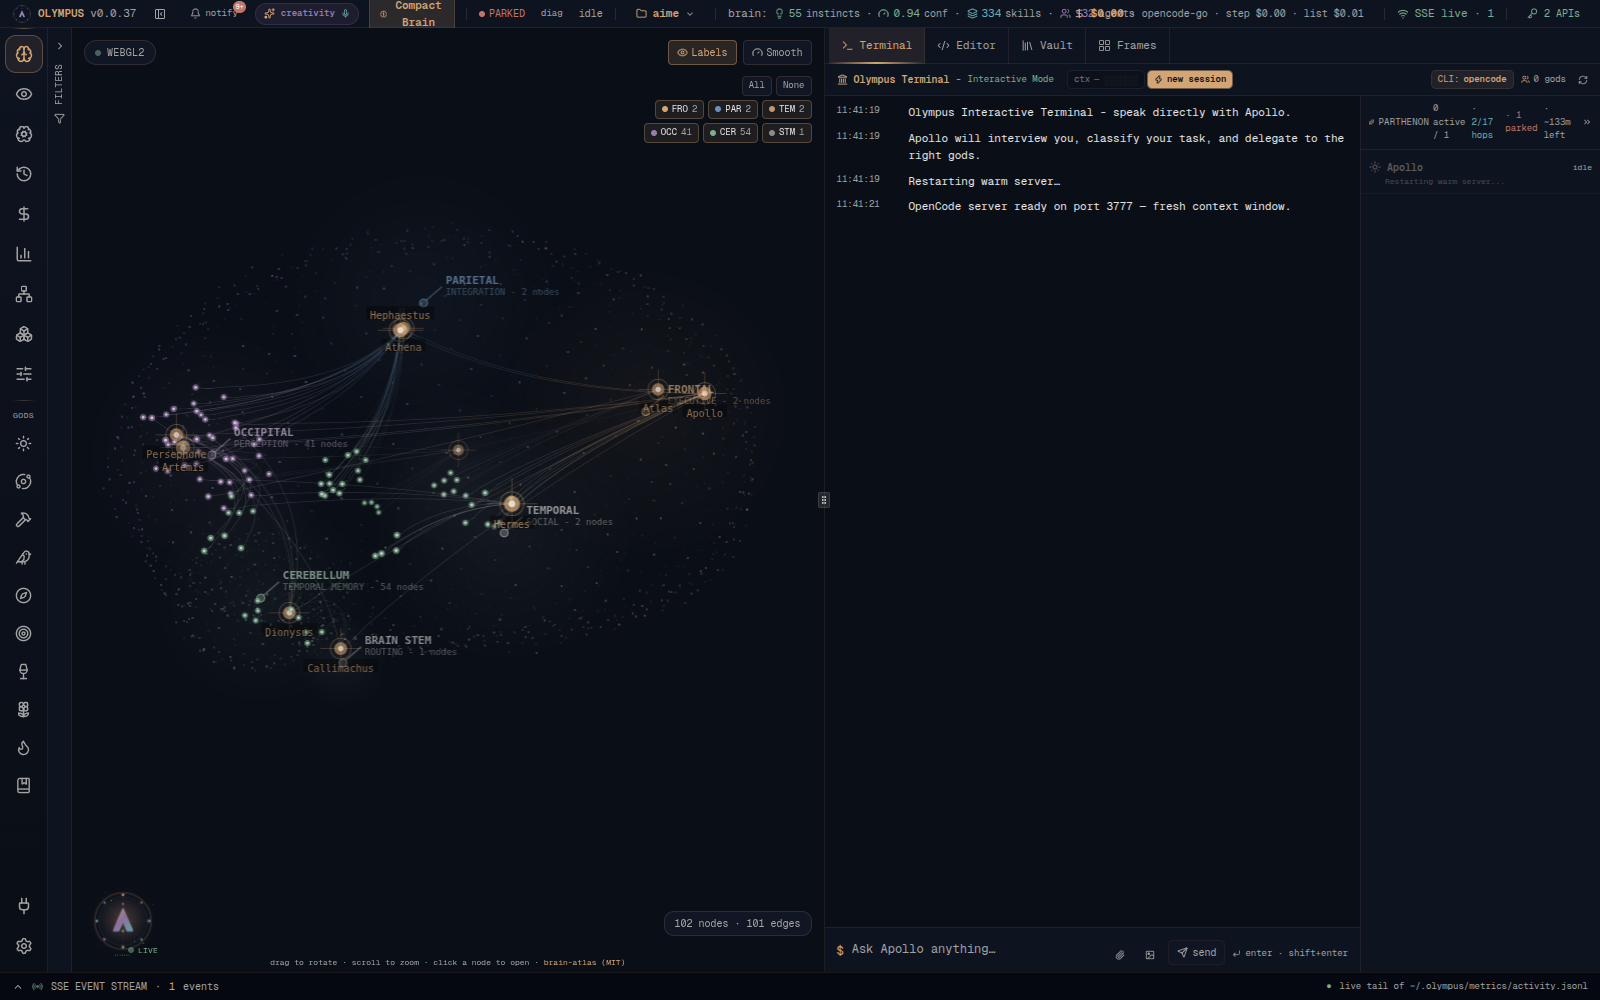
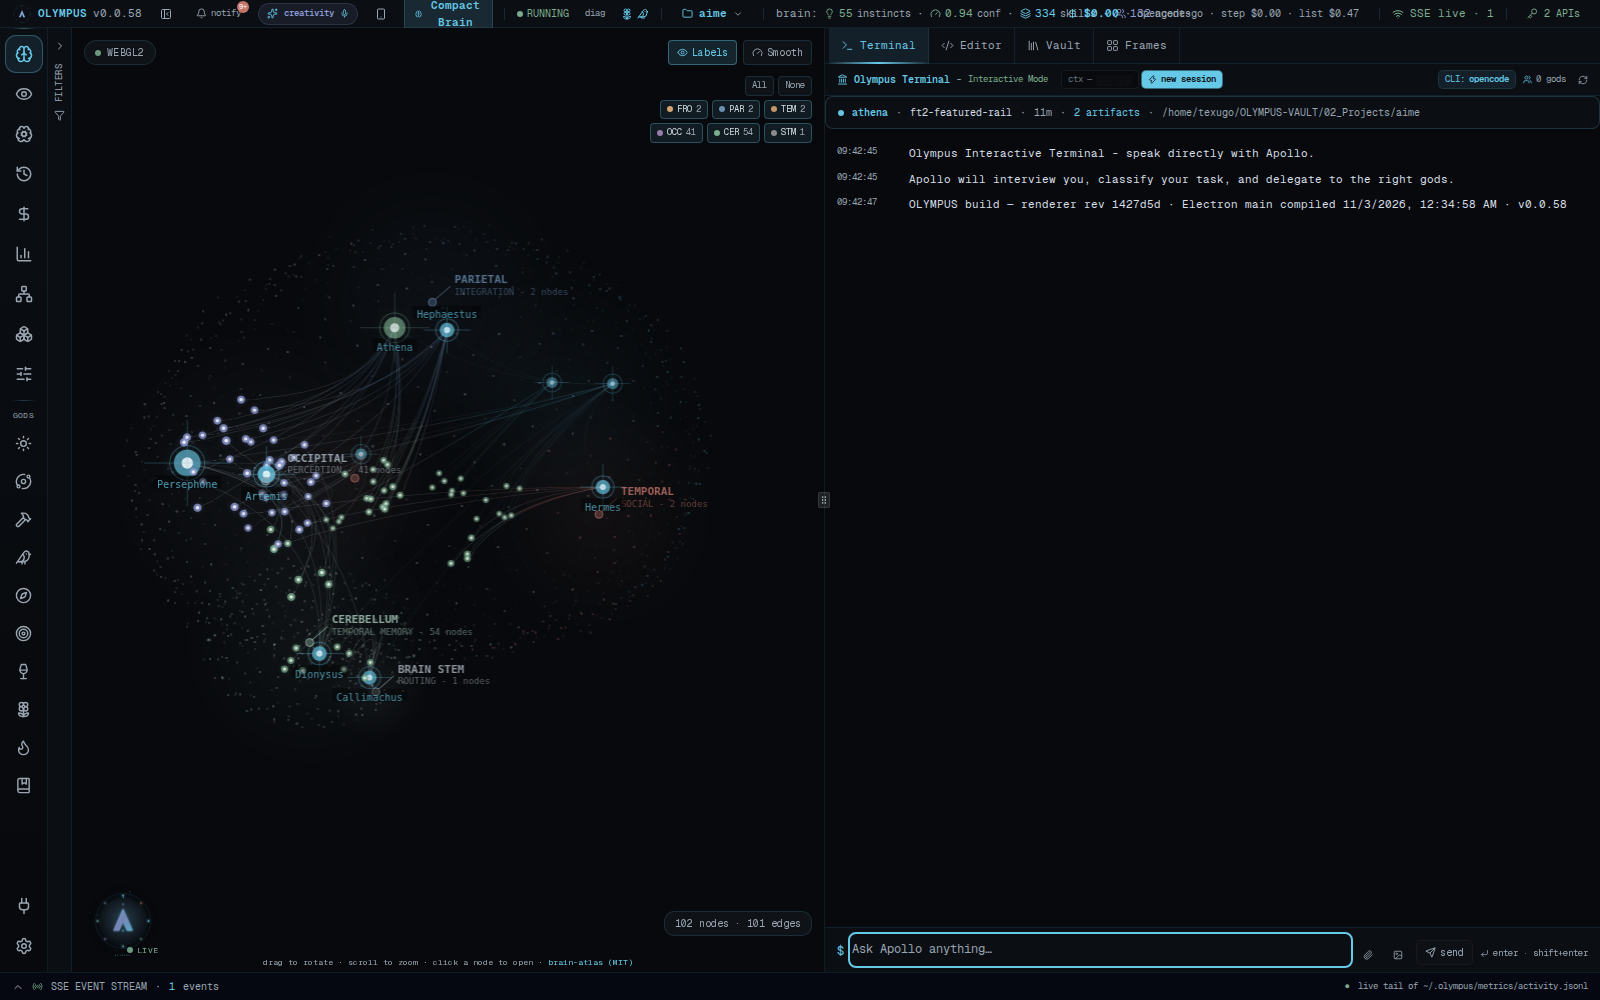
feat(talent): /talent is one click away; hydration-stable sigil
The studio lived three clicks deep (Craft → Builds → talent editor). It now
has a route and a status-bar button, and the god hero's gradient no longer
washes out the symbol. The sigil rounds coordinates to three decimals: the
server and browser disagreed on the last float digit, which hydrated as a
string mismatch. Screenshots refreshed at v0.0.58 from the live app.

diff --git a/src/components/olympus/status-bar.tsx b/src/components/olympus/status-bar.tsx
@@ -9,9 +9,10 @@ import { useOlympus, GOD_ICONS } from '@/lib/olympus-store';
 import {
  Wifi, WifiOff, DollarSign, Key, Terminal,
  Minus, Square, X, Copy, PanelLeftClose, PanelLeftOpen,
- Lightbulb, Gauge, Layers, Users, Sparkles as StudioIcon, Mic, Smartphone,
+ Lightbulb, Gauge, Layers, Users, Sparkles as StudioIcon, Mic, Smartphone, Gem,
 } from 'lucide-react';
 import dynamic from 'next/dynamic';
+import { useRouter } from 'next/navigation';
 
 const CompactBrainButton = dynamic(() => import('./compact-brain-button'), { ssr: false });
 const ProjectSwitcher = dynamic(() => import('./project-switcher'), { ssr: false });
@@ -69,6 +70,7 @@ export default function StatusBar({
  const activeGod = useOlympus(s => s.activeGod);
   const [theme] = useTheme();
   const language = useLanguage();
+  const router = useRouter();
   const [studio, setStudio] = useState(false);
   const [mobilePair, setMobilePair] = useState(false);
  // W-D1: the idle fallback reads the user's SELECTED god (its own comment
@@ -226,6 +228,16 @@ export default function StatusBar({
 		   <Smartphone size={12} />
 		 </button>
 		 {mobilePair && <MobilePairDialog onClose={() => setMobilePair(false)} />}
+		 {/* v0.0.59 — the Talent Studio is one click away, not three. */}
+		 <button
+		   onClick={() => { router.push('/talent'); }}
+		   aria-label="Open the Talent Studio"
+		   data-tip="Talent Studio — name a combination, fork a preset"
+		   className="flex items-center gap-1 h-5 px-1.5 rounded-full shrink-0 text-olympus-gold/80 ring-1 ring-olympus-gold/20 hover:bg-olympus-gold/10 hover:text-olympus-gold transition-colors"
+		 >
+		   <Gem size={10} />
+		   <span className="text-[9px] font-mono font-semibold">talent</span>
+		 </button>
 
 		 {/* Compact Brain button — to the RIGHT of Focus Mode. */}
  <CompactBrainButton />

diff --git a/src/components/olympus/talent-sigil.tsx b/src/components/olympus/talent-sigil.tsx
@@ -47,7 +47,12 @@ export default function TalentSigil({
   const nodes = Array.from({ length: 8 }, (_, i) => {
     const angle = (i / 8) * Math.PI * 2 + (seed % 17) / 17;
     const radius = 42 + ((seed >> (i * 3)) & 7);
-    return { x: 64 + Math.cos(angle) * radius, y: 64 + Math.sin(angle) * radius, c: colors[(i + (seed % 4)) % colors.length], r: 1.3 + ((seed >> i) & 3) * 0.45 };
+    // v0.0.59 — round the coordinates: server and browser can disagree on
+    // the LAST float digit (99.94390641147795 vs …94), and React hydrates
+    // attributes as strings. Three decimals is visually identical and
+    // stable across runtimes.
+    const round = (n: number) => Math.round(n * 1000) / 1000;
+    return { x: round(64 + Math.cos(angle) * radius), y: round(64 + Math.sin(angle) * radius), c: colors[(i + (seed % 4)) % colors.length], r: round(1.3 + ((seed >> i) & 3) * 0.45) };
   });
   const peak = `M 64 ${30 + (seed % 7)} L ${84 + (seed % 5)} 94 L ${72 + (seed % 3)} 94 L 64 68 L ${56 - (seed % 3)} 94 L ${44 - (seed % 5)} 94 Z`;
   const initials = name.split(/[-_\s]+/).filter(Boolean).map((w) => w[0]).join('').slice(0, 2).toUpperCase() || 'OL';
@@ -104,7 +109,7 @@ export default function TalentSigil({
         <text x="64" y="118">{initials}</text>
       </g>
       {nodes.map((n, i) => (
-        <circle key={i} cx={n.x} cy={n.y} r={n.r} fill={n.c} opacity={stable ? 0.8 : 0.55 + ((i + seed) % 4) * 0.1}>
+        <circle key={i} cx={n.x} cy={n.y} r={n.r} fill={n.c} opacity={(stable ? 0.8 : 0.55 + ((i + seed) % 4) * 0.1).toFixed(2)}>
           {!stable && <animate attributeName="opacity" values="0.45;0.95;0.45" dur={`${3 + (i % 4)}s`} repeatCount="indefinite" />}
         </circle>
       ))}

diff --git a/src/components/olympus/build-talent-page.tsx b/src/components/olympus/build-talent-page.tsx
@@ -199,7 +199,7 @@ export default function BuildTalentPage({
         <section className="flex flex-col gap-2.5 min-w-0">
           {/* v0.0.57 — the old talent page's simple, animated hero: the god's
               own symbol, large, with the sector as a quiet label. */}
-          <div className="rounded-xl border border-olympus-gold/15 bg-[radial-gradient(circle_at_50%_20%,var(--olympus-gold),transparent_58%)] bg-olympus-panel/40 py-4 flex flex-col items-center gap-1.5">
+          <div className="rounded-xl border border-olympus-gold/15 bg-olympus-panel/40 py-4 flex flex-col items-center gap-1.5" style={{ background: 'radial-gradient(circle at 50% 12%, color-mix(in oklab, var(--olympus-gold) 16%, transparent), transparent 62%)' }}>
             {(() => { const Icon = GOD_ICONS[god] ?? GOD_ICONS.apollo; return <Icon size={54} strokeWidth={1.35} className="text-olympus-gold drop-shadow-[0_0_18px_rgba(212,165,116,0.25)]" />; })()}
             <span className="text-[12px] font-mono font-semibold uppercase tracking-[0.2em] text-olympus-text">{god}</span>
             <span className="text-[8px] font-mono uppercase tracking-wide text-olympus-text-dim">{BUILD_CATEGORIES.find((c) => c.id === category)?.name ?? 'general'} · {power} points</span>

diff --git a/src/app/talent/page.tsx b/src/app/talent/page.tsx
@@ -1,0 +1,25 @@
+'use client';
+
+/**
+ * /talent — the Talent Studio as a first-class surface.
+ *
+ * Until v0.0.59 the studio lived three clicks deep (Craft → Builds → talent
+ * editor). The talent is a creation surface, not a sub-tab: this route makes
+ * it reachable from the status bar in one click and deep-linkable.
+ *
+ * License: AGPL-3.0-or-later (original OLYMPUS code).
+ */
+import { useRouter } from 'next/navigation';
+import BuildTalentPage from '@/components/olympus/build-talent-page';
+
+export default function TalentRoute() {
+  const router = useRouter();
+  return (
+    <div className="fixed inset-0 bg-olympus-bg">
+      <BuildTalentPage
+        onClose={() => { router.push('/'); }}
+        onCreated={() => { /* the studio reloads its own shelf */ }}
+      />
+    </div>
+  );
+}

diff --git a/src/app/talent/layout.tsx b/src/app/talent/layout.tsx
@@ -1,0 +1,10 @@
+import type { Metadata } from 'next';
+
+export const metadata: Metadata = {
+  title: 'OLYMPUS · Talent Studio',
+  description: 'Name a combination, fork a shelf preset, publish a talent.',
+};
+
+export default function TalentLayout({ children }: { children: React.ReactNode }) {
+  return children;
+}
